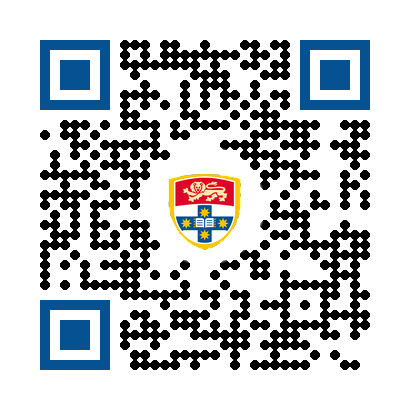
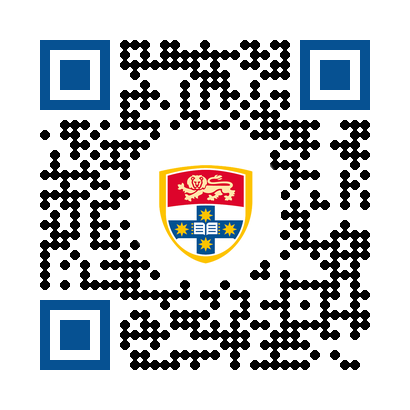
misc updates

Changed region(s): [[0.322, 0.322, 0.7024, 0.7024], [0.4098, 0.322, 0.4683, 0.3512]]

diff --git a/src/branded_qr.py b/src/branded_qr.py
@@ -26,6 +26,10 @@ UNIVERSITY_PRESETS = {
         # Hardcode Sydney brand blue sampled from logo
         "finder_dark_color": "#065192",
     },
+    "uq": {
+        "logo_path": "data/uqlogo.png",
+        "finder_dark_color": None,
+    },
 }
 
 def _resize_rgba_premultiplied(img: Image.Image, size: Tuple[int, int], resample=Image.LANCZOS) -> Image.Image:
@@ -54,7 +58,7 @@ def make_branded_qr(
     url: str,
     logo_path: Optional[str] = None,
     *,
-    target_frac: float = 0.18,
+    target_frac: float = 0.234,
     pad_frac: float = 0.28,
     smooth_sigma: float = 1.2,
     ring_thickness: int = 0,
@@ -238,7 +242,7 @@ def main() -> None:
     parser = argparse.ArgumentParser(description="Generate a branded QR code with a circular logo inset.")
     parser.add_argument("url", help="URL or text to encode")
     parser.add_argument("logo_path", nargs="?", default=None, help="Path to logo image (optional if --university is supplied)")
-    parser.add_argument("--university", type=str, choices=["mq", "unisq", "sydney"], help="Preset branding: mq | unisq | sydney")
+    parser.add_argument("--university", type=str, choices=["mq", "unisq", "sydney", "uq"], help="Preset branding: mq | unisq | sydney | uq")
     parser.add_argument("-o", "--output", dest="save_path", default="branded_qr.png", help="Output image path")
     parser.add_argument("--target-frac", type=float, default=0.18)
     parser.add_argument("--pad-frac", type=float, default=0.28)

diff --git a/docs/usage.md b/docs/usage.md
@@ -18,6 +18,9 @@ branded-qr --university mq "https://example.com" -o data/aas_QR.png
 
 # UniSQ preset (uses data/unisq_shield_plain.png and finder color #3c2d4d)
 branded-qr --university unisq "https://example.com" -o data/aas_QR.png
+
+# UQ preset (uses data/uqlogo.png)
+branded-qr --university uq "https://example.com" -o data/aas_QR.png
 ```
 
 ## Python API
@@ -38,7 +41,7 @@ Using presets via `university`:
 from branded_qr import make_branded_qr
 img = make_branded_qr(
   url="https://example.com",
-  university="mq",  # mq | unisq | sydney
+  university="mq",  # mq | unisq | sydney | uq
   save_path="data/aas_QR.png"
 )
 ```

diff --git a/docs/examples.md b/docs/examples.md
@@ -60,3 +60,22 @@ img.save("sydney_qr.png")
 Rendered example:
 
 ![Sydney QR](assets/examples/sydney_qr.png)
+
+## University of Queensland (UQ)
+
+- Website: https://uq.edu.au
+
+Example code:
+
+```python
+from branded_qr import make_branded_qr
+img = make_branded_qr(
+    url="https://uq.edu.au",
+    university="uq"
+)
+img.save("uq_qr.png")
+```
+
+Rendered example:
+
+![UQ QR](assets/examples/uq_qr.png)

diff --git a/README.md b/README.md
@@ -22,6 +22,9 @@ branded-qr --university mq "https://example.com" -o data/aas_QR.png
 
 # UniSQ preset (uses data/unisq_shield_plain.png and finder color #3c2d4d)
 branded-qr --university unisq "https://example.com" -o data/aas_QR.png
+
+# UQ preset (uses data/uqlogo.png)
+branded-qr --university uq "https://example.com" -o data/aas_QR.png
 ```
 
 ## Python API
